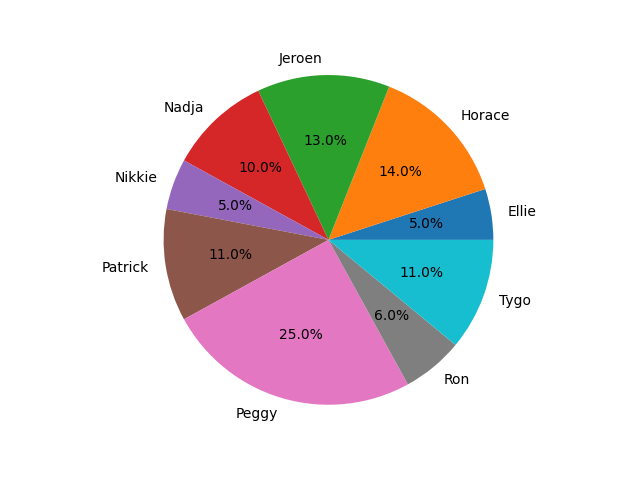
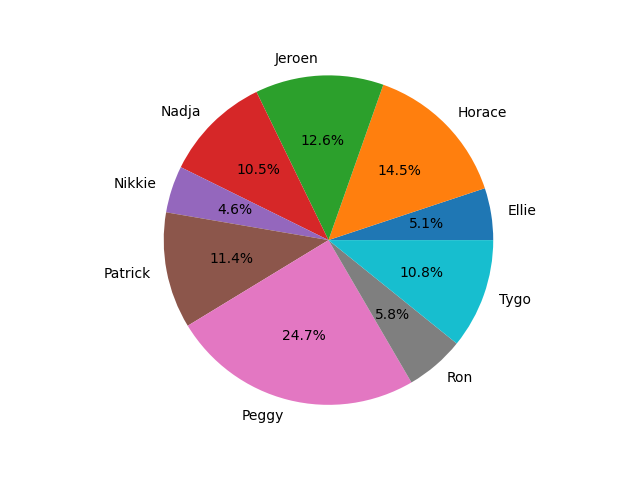
Fixed bug in rounding of results

diff --git a/moldel/Run.py b/moldel/Run.py
@@ -7,11 +7,12 @@ import sys
 RANDOM_SEED = 949019755
 TRAIN_SEASONS = {9, 10, 11, 12, 13, 14, 15, 16, 17, 18, 19, 20}
 PREDICT_SEASON = 21
-LATEST_EPISODE = 0
+LATEST_EPISODE = 1
 TRAIN_SEASONS.discard(PREDICT_SEASON)
 
 random_generator = RandomState(RANDOM_SEED)
 moldel = Moldel(random_generator)
 distribution = moldel.compute_distribution(PREDICT_SEASON, LATEST_EPISODE, TRAIN_SEASONS)
-printer = PieChartPrinter(2, 0.015)
+printer = PieChartPrinter(3, 0.015)
+# printer = TextSortedPrinter(0, 100)
 printer.print(distribution)
